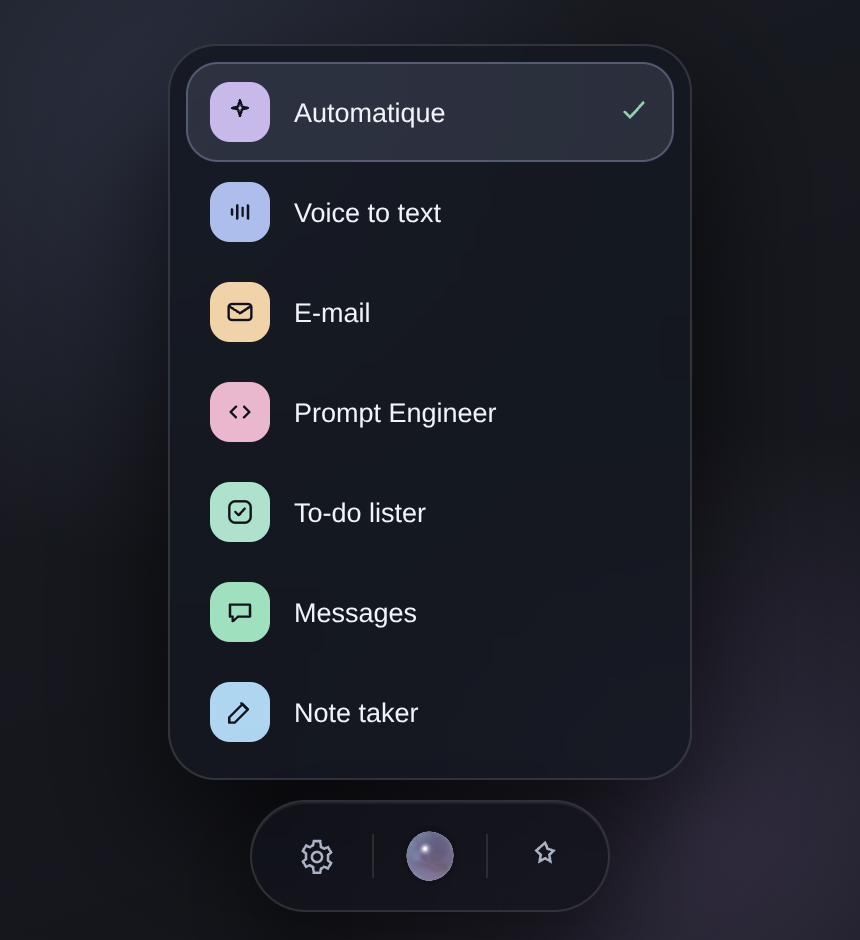
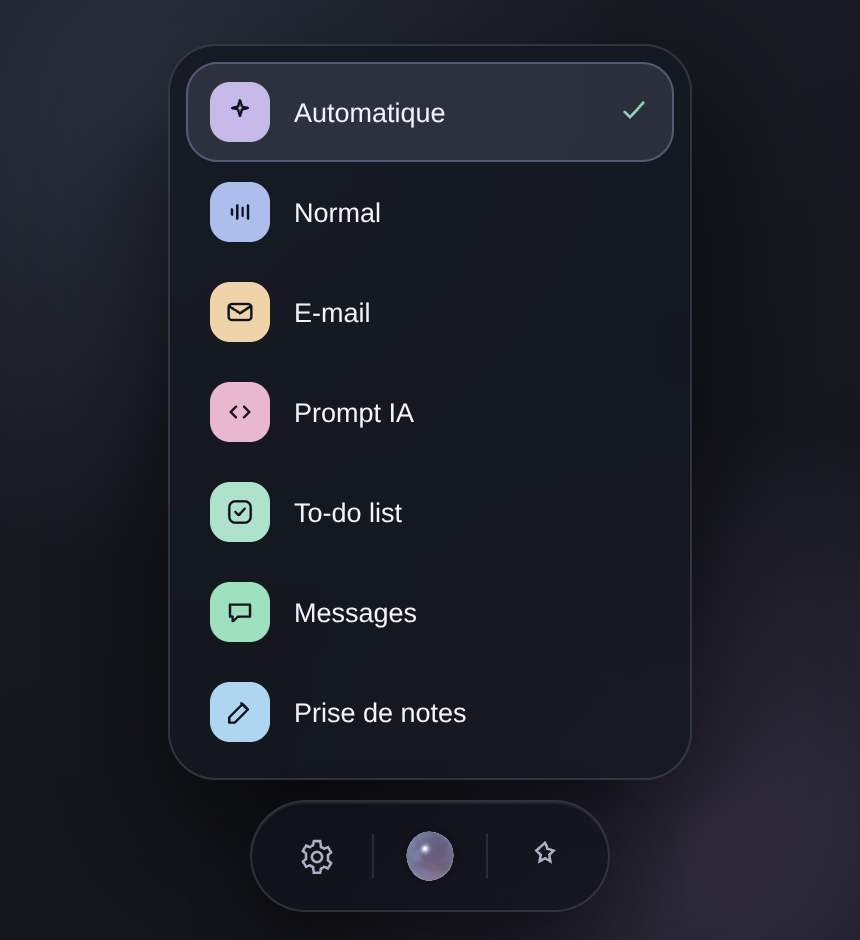
chore(shots): captures d'app régénérées — Styles français + lexique premium
capture.py : mock aligné (« Nécessite plus de mémoire », « accélération
graphique NVIDIA ») ; les 4 PNG retina montrent désormais Normal, Prompt IA,
To-do list, Prise de notes et les réglages rebrandés (Touche de dictée,
Go de mémoire).

Claude-Session: https://claude.ai/code/session_01UXR43MKD2FvGFsxE1mvrTo

diff --git a/landing/shots/capture.py b/landing/shots/capture.py
@@ -15,8 +15,8 @@ S.modes=[{id:'auto',label:'Automatique'},{id:'voice_to_text',label:'Normal'},
 S.mode='auto';S.tier='ultra';S.cloud_enabled=true;S.autostart=true;S.ptt_key='f9';
 S.profile='high';
 S.profiles=[{id:'normal',label:'Normal'},{id:'high',label:'Élevé',warning:''},
- {id:'ultra',label:'Ultra',locked:true,reason:'Nécessite 16 Go de RAM'}];
-S.hardware={ram_total_gb:16,has_gpu:true,gpu_name:'GeForce RTX 3060'};
+ {id:'ultra',label:'Ultra',locked:true,reason:'Nécessite plus de mémoire'}];
+S.hardware={ram_total_gb:16,has_gpu:true,gpu_name:'accélération graphique NVIDIA'};
 S.lic={tier:'ultra',active:true,email:'vous@exemple.fr',quota:{limit:null}};
 S.perso={orb:true,modes:true};
 S.custom_modes=[
